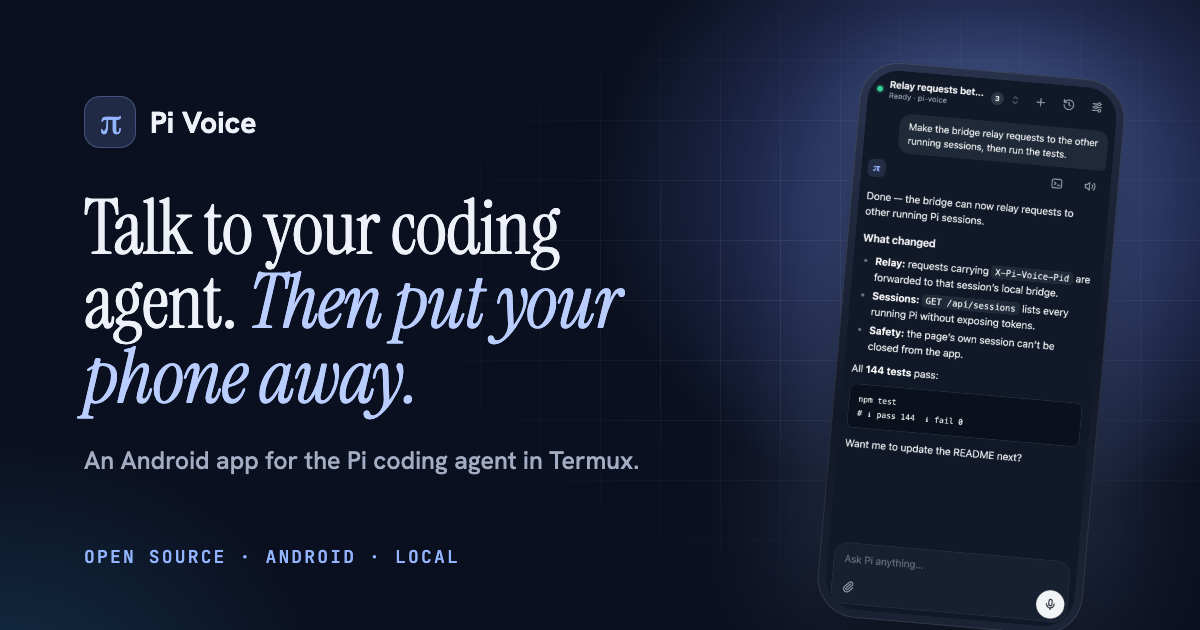
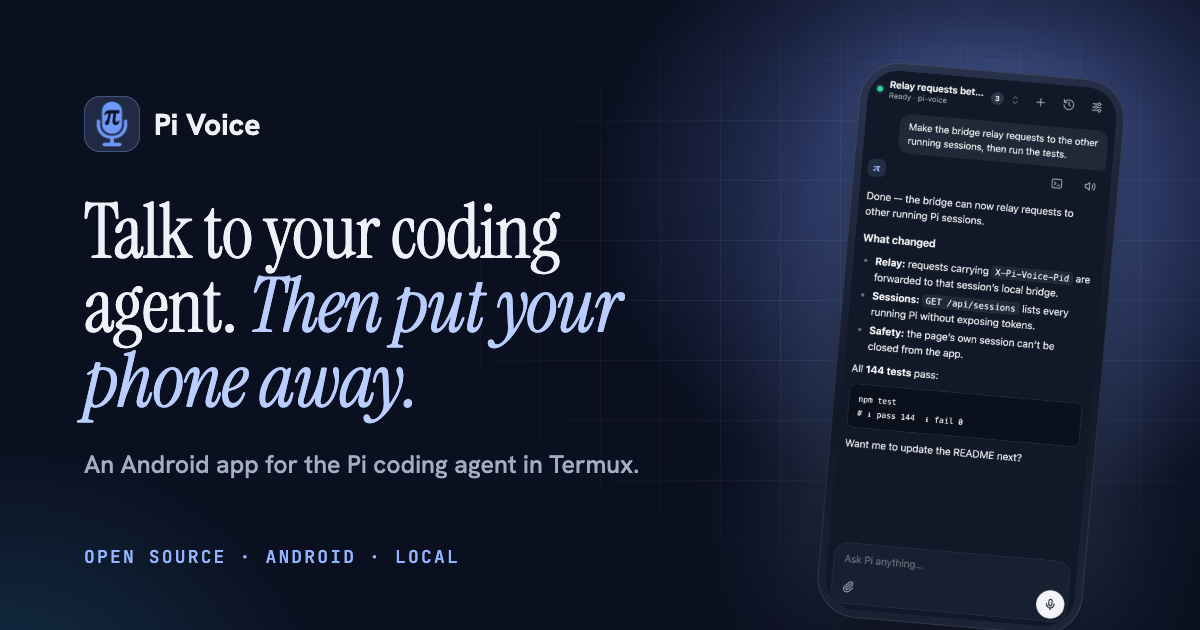
Update the website for Pi Voice 3.0
- Version 3.0 badge and download labels.
- Send-only submission replaces the auto-send mentions.
- Parallel sessions: every conversation gets its own Pi; any session
  can close without touching the others.
- Recovery reattaches surviving sessions; notification taps open the
  exact conversation.
- Privacy diagram shows the independent Pi Voice host between the app
  and the Pi sessions.
- New pi-and-microphone artwork for the brand mark and preview image.

Changed region(s): [[0.0617, 0.3016, 0.5242, 0.6937], [0.0617, 0.6937, 0.555, 0.754], [0.0617, 0.1508, 0.2158, 0.2413]]

diff --git a/docs/index.html b/docs/index.html
@@ -26,7 +26,7 @@
 
   <header class="nav" id="top">
     <div class="wrap nav-inner">
-      <a class="brand" href="#top" aria-label="Pi Voice home"><span class="brand-mark" aria-hidden="true">π</span><span>Pi Voice</span></a>
+      <a class="brand" href="#top" aria-label="Pi Voice home"><img class="brand-mark" src="assets/favicon-192.png" width="32" height="32" alt=""><span>Pi Voice</span></a>
       <nav aria-label="Sections">
         <a href="#how">How it works</a>
         <a href="#features">Features</a>
@@ -48,13 +48,13 @@
       <div class="glow glow-b" aria-hidden="true"></div>
       <div class="wrap hero-grid">
         <div class="hero-copy">
-          <a class="badge reveal" href="https://github.com/Endogen/pi-voice/blob/main/CHANGELOG.md"><span class="badge-dot" aria-hidden="true"></span>New in 2.2 — reply notifications &amp; haptics<svg viewBox="0 0 24 24" aria-hidden="true"><path d="M5 12h14M13 6l6 6-6 6"/></svg></a>
+          <a class="badge reveal" href="https://github.com/Endogen/pi-voice/blob/main/CHANGELOG.md"><span class="badge-dot" aria-hidden="true"></span>New in 3.0 — sessions that run on their own<svg viewBox="0 0 24 24" aria-hidden="true"><path d="M5 12h14M13 6l6 6-6 6"/></svg></a>
           <h1 class="reveal">Talk to your coding agent. <em>Then put your phone away.</em></h1>
           <p class="lede reveal">Pi Voice is an Android app for the <a href="https://github.com/earendil-works/pi">Pi coding agent</a> running in Termux. Speak a task, check the transcript, send it — and get a nudge when Pi is done. No cloud, no server, no account.</p>
           <div class="cta-row reveal">
             <a class="button button-primary" href="https://github.com/Endogen/pi-voice/releases/latest/download/pi-voice.apk">
               <svg viewBox="0 0 24 24" aria-hidden="true"><path d="M12 3v12M7 10l5 5 5-5M5 21h14"/></svg>
-              <span>Download for Android<small>APK · version 2.2</small></span>
+              <span>Download for Android<small>APK · version 3.0</small></span>
             </a>
             <a class="button button-ghost" href="https://github.com/Endogen/pi-voice">View on GitHub</a>
           </div>
@@ -97,7 +97,7 @@
           <li class="step reveal">
             <span class="step-num" aria-hidden="true">2</span>
             <h3>Review &amp; send</h3>
-            <p>Check the transcript, fix a word if needed, attach a screenshot, and send it to Pi. Or switch on auto-send.</p>
+            <p>Check the transcript, fix a word if needed, attach a screenshot. Nothing goes to Pi until you tap Send.</p>
           </li>
           <li class="step reveal">
             <span class="step-num" aria-hidden="true">3</span>
@@ -133,12 +133,12 @@
         <article class="feature feature-flip reveal">
           <div class="feature-copy">
             <span class="feature-tag">Parallel sessions</span>
-            <h3>Start something new while Pi is busy</h3>
-            <p>Kick off a second conversation without stopping the first. Switch between them, and see at a glance which one just finished. If your phone stopped Pi overnight, your conversations come back with a tap.</p>
+            <h3>Run conversations side by side</h3>
+            <p>Every new conversation gets its own Pi, so starting one never interrupts another — even mid-reply. Switch between them, see at a glance which one just finished, and close any of them without touching the rest.</p>
             <ul class="ticks">
-              <li>Up to four sessions side by side</li>
+              <li>Up to four sessions at once</li>
+              <li>Close any one, the others keep going</li>
               <li>Background replies are flagged</li>
-              <li>Restore after Android stops Termux</li>
             </ul>
           </div>
           <div class="feature-shot"><div class="phone"><img src="screenshots/sessions.png" width="780" height="1688" alt="The Sessions sheet with three running sessions and two stopped ones" loading="lazy"></div></div>
@@ -148,9 +148,9 @@
           <div class="feature-copy">
             <span class="feature-tag">Voice first</span>
             <h3>Built around your voice</h3>
-            <p>Push to talk, review before sending, and keep editing by hand when you want to. Replies can be read aloud on request — code blocks are skipped, so you hear the explanation, not the syntax.</p>
+            <p>Push to talk, check the transcript, and keep editing by hand when you want to. Nothing is sent until you tap Send — not by a misheard word, not by the Enter key. Replies can be read aloud on request; code blocks are skipped, so you hear the explanation, not the syntax.</p>
             <ul class="ticks">
-              <li>Review-before-send by default</li>
+              <li>Only the Send button sends</li>
               <li>Read aloud in your language</li>
               <li>Haptic feedback as you go</li>
             </ul>
@@ -170,12 +170,12 @@
           <div class="card reveal">
             <span class="card-icon"><svg viewBox="0 0 24 24" aria-hidden="true"><path d="M6 8a6 6 0 0 1 12 0c0 7 3 9 3 9H3s3-2 3-9M10.3 21a1.94 1.94 0 0 0 3.4 0"/></svg></span>
             <h3>Know when it's done</h3>
-            <p>A chime and a light vibration while the app is open; a notification with the start of the reply when it isn't.</p>
+            <p>A chime and a light vibration while the app is open; a notification when it isn't. Tapping it opens that exact conversation.</p>
           </div>
           <div class="card reveal">
             <span class="card-icon"><svg viewBox="0 0 24 24" aria-hidden="true"><path d="M3 12a9 9 0 1 0 2.6-6.4L3 8"/><path d="M3 3v5h5"/></svg></span>
             <h3>Picks up where you left off</h3>
-            <p>If Android stops Termux, opening the app restarts Pi and reopens the conversation you had open, in its own folder.</p>
+            <p>If Android stops Termux, opening the app brings back the conversation you had open. Pi sessions that survived are reattached as they were.</p>
           </div>
           <div class="card reveal">
             <span class="card-icon"><svg viewBox="0 0 24 24" aria-hidden="true"><rect x="3" y="3" width="18" height="18" rx="3"/><circle cx="9" cy="9" r="2"/><path d="m21 15-3.1-3.1a2 2 0 0 0-2.8 0L6 21"/></svg></span>
@@ -207,18 +207,20 @@
         <div>
           <p class="eyebrow">Local by design</p>
           <h2>Private by architecture, <em>not by promise.</em></h2>
-          <p class="section-lede">Pi Voice talks to Pi over your phone's loopback interface. There is no Pi Voice server to trust, because there is no Pi Voice server.</p>
+          <p class="section-lede">The app talks to a small host in Termux over your phone's loopback interface, and the host talks to your Pi sessions. There is no Pi Voice server on the internet to trust, because there isn't one.</p>
           <ul class="ticks ticks-wide">
-            <li>The bridge listens only on <code>127.0.0.1</code>, behind a random 256-bit token.</li>
-            <li>Notifications are signed, so other apps can't fake them.</li>
+            <li>The host and every session listen only on <code>127.0.0.1</code>, behind a random 256-bit token.</li>
+            <li>Notifications are signed and tied to their conversation, so other apps can't fake them.</li>
             <li>No account, no analytics, no telemetry. Pi Voice stores no audio.</li>
             <li>Speech recognition uses Android's own service, which may process audio online — choose an offline voice if that matters to you.</li>
           </ul>
         </div>
-        <figure class="diagram reveal" aria-label="How data flows: the app talks to Pi on the phone; only Pi talks to your model provider">
-          <div class="node"><span class="node-icon">π</span><strong>Pi Voice app</strong><span>Your phone</span></div>
+        <figure class="diagram reveal" aria-label="How data flows: the app talks to the Pi Voice host on the phone, the host to your Pi sessions, and only Pi talks to your model provider">
+          <div class="node"><img class="node-icon node-art" src="assets/favicon-192.png" width="48" height="48" alt=""><strong>Pi Voice app</strong><span>Your phone</span></div>
           <div class="link"><span>127.0.0.1 · token</span></div>
-          <div class="node"><span class="node-icon mono">&gt;_</span><strong>Pi in Termux</strong><span>Your phone</span></div>
+          <div class="node"><span class="node-icon mono">&gt;_</span><strong>Pi Voice host</strong><span>In Termux · runs on its own</span></div>
+          <div class="link"><span>127.0.0.1 · token</span></div>
+          <div class="node node-stack"><span class="node-icon">π</span><strong>Your Pi sessions</strong><span>Each in its own terminal</span></div>
           <div class="link link-out"><span>your API key</span></div>
           <div class="node node-out"><span class="node-icon"><svg viewBox="0 0 24 24" aria-hidden="true"><path d="M17.5 19a4.5 4.5 0 1 0-1.4-8.78A6 6 0 1 0 6 16.5"/><path d="M6 16.5h11.5"/></svg></span><strong>Your model provider</strong><span>Exactly as with Pi alone</span></div>
         </figure>
@@ -293,11 +295,11 @@ npm run native:install -- --enable</code></pre>
           </details>
           <details>
             <summary>Why does it need “Run commands in Termux”?</summary>
-            <p>That's how the app starts Pi in the background without opening a terminal window, restarts it when Android stopped it, and opens Pi's terminal when you ask. The app only runs its own fixed helper scripts and never accepts commands from other apps.</p>
+            <p>That's how the app starts the Pi Voice host and your Pi sessions in the background without opening a terminal window, brings them back when Android stopped them, and opens a session's terminal when you ask. The app only runs its own fixed helper scripts and never accepts commands from other apps.</p>
           </details>
           <details>
             <summary>Will Android kill Pi in the background?</summary>
-            <p>It can. Pi Voice holds Termux's wake lock while Pi runs, and you should set Termux's battery use to Unrestricted. If Android stops it anyway, opening the app restarts Pi and reopens your conversation.</p>
+            <p>It can. Pi Voice holds Termux's wake lock while Pi runs, and you should set Termux's battery use to Unrestricted. If Android stops it anyway, opening the app restarts the host, reattaches any Pi sessions that survived and reopens the conversation you had open.</p>
           </details>
           <details>
             <summary>Does my voice leave the phone?</summary>
@@ -319,7 +321,7 @@ npm run native:install -- --enable</code></pre>
         <div class="cta-row cta-center">
           <a class="button button-primary" href="https://github.com/Endogen/pi-voice/releases/latest/download/pi-voice.apk">
             <svg viewBox="0 0 24 24" aria-hidden="true"><path d="M12 3v12M7 10l5 5 5-5M5 21h14"/></svg>
-            <span>Download for Android<small>APK · version 2.2</small></span>
+            <span>Download for Android<small>APK · version 3.0</small></span>
           </a>
           <a class="button button-ghost" href="#install">Installation guide</a>
         </div>
@@ -330,7 +332,7 @@ npm run native:install -- --enable</code></pre>
   <footer class="footer">
     <div class="wrap footer-inner">
       <div class="footer-brand">
-        <a class="brand" href="#top"><span class="brand-mark" aria-hidden="true">π</span><span>Pi Voice</span></a>
+        <a class="brand" href="#top"><img class="brand-mark" src="assets/favicon-192.png" width="32" height="32" alt=""><span>Pi Voice</span></a>
         <p>A voice for the <a href="https://github.com/earendil-works/pi">Pi coding agent</a> on Android.</p>
       </div>
       <nav class="footer-links" aria-label="Footer">

diff --git a/docs/assets/site.css b/docs/assets/site.css
@@ -50,7 +50,7 @@ svg .fill { fill: currentColor; stroke: none; }
 .nav.scrolled { background: rgb(11 16 32 / .78); backdrop-filter: blur(14px) saturate(140%); -webkit-backdrop-filter: blur(14px) saturate(140%); border-bottom-color: var(--line); }
 .nav-inner { display: flex; align-items: center; gap: 28px; height: 68px; }
 .brand { display: inline-flex; align-items: center; gap: 10px; font-weight: 700; font-size: 1.05rem; letter-spacing: -.01em; text-decoration: none; }
-.brand-mark { display: inline-grid; place-items: center; width: 32px; height: 32px; border-radius: 10px; background: var(--accent-soft); color: var(--accent); font: 400 1.35rem/1 var(--serif); box-shadow: inset 0 0 0 1px rgb(147 180 255 / .25); }
+.brand-mark { width: 34px; height: 34px; padding: 3px; border-radius: 10px; background: var(--accent-soft); box-shadow: inset 0 0 0 1px rgb(147 180 255 / .25); object-fit: contain; }
 .nav nav { display: flex; gap: 26px; margin-left: 16px; }
 .nav nav a { color: var(--muted); text-decoration: none; font-size: .94rem; font-weight: 500; transition: color .15s; }
 .nav nav a:hover { color: var(--text); }
@@ -171,9 +171,12 @@ h3 { font-size: 1.2rem; font-weight: 600; letter-spacing: -.01em; }
 .node > span:last-child { grid-column: 2; color: var(--subtle); font-size: .88rem; }
 .node-icon { grid-row: span 2; display: grid; place-items: center; width: 48px; height: 48px; border-radius: 14px; background: var(--accent-soft); color: var(--accent); font: 400 1.6rem/1 var(--serif); }
 .node-icon.mono { font: 500 1rem/1 var(--mono); }
+.node-art { padding: 6px; object-fit: contain; }
+/* Several Pi sessions: a stacked card. */
+.node-stack { position: relative; box-shadow: 6px 6px 0 -1px var(--ink), 6px 6px 0 0 var(--line-strong), 12px 12px 0 -1px var(--ink), 12px 12px 0 0 var(--line); margin-right: 12px; }
 .node-out { border-style: dashed; background: transparent; }
 .node-out .node-icon { background: rgb(255 255 255 / .05); color: var(--muted); }
-.link { position: relative; height: 64px; margin-left: 43px; border-left: 2px dashed rgb(147 180 255 / .45); }
+.link { position: relative; height: 56px; margin-left: 43px; border-left: 2px dashed rgb(147 180 255 / .45); }
 .link span { position: absolute; left: 18px; top: 50%; transform: translateY(-50%); font: 500 .78rem/1 var(--mono); color: var(--accent); padding: 6px 10px; border-radius: 8px; background: var(--accent-soft); }
 .link::after { content: ""; position: absolute; left: -6px; bottom: -2px; width: 10px; height: 10px; border-right: 2px solid rgb(147 180 255 / .6); border-bottom: 2px solid rgb(147 180 255 / .6); transform: rotate(45deg); }
 .link-out { border-left-color: rgb(255 255 255 / .2); }
